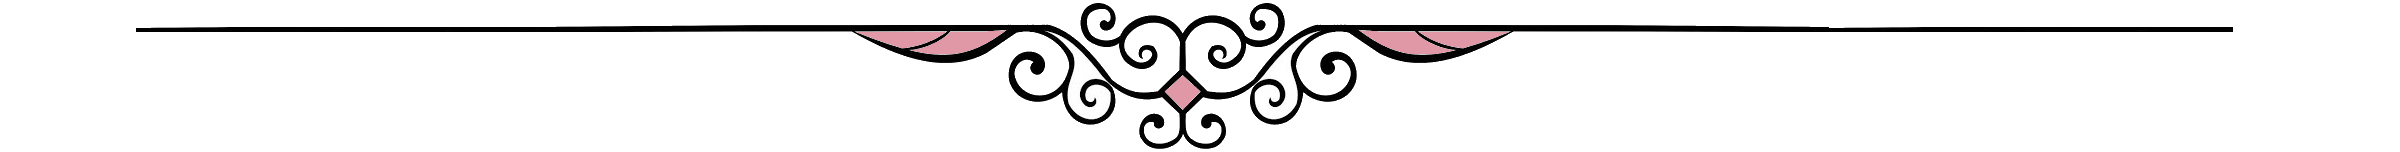
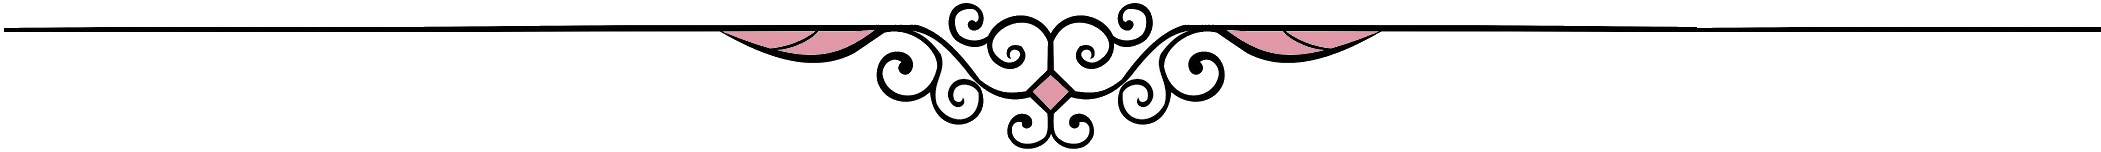
-changes to page layout -added graphic underlines for lvl before and after pics

diff --git a/lvl.html b/lvl.html
@@ -117,8 +117,11 @@
             <img src="imgs/lvl-model-after.jpg" alt="">
         </div>
 
+        <div class="d-flex justify-content-center">
+            <img id="underline" src="imgs/underline-pic.jpg" alt="">
+        </div>
 
-        <h1 id="faq" class="main-title pink my-5">Frequently Asked Questions</h1>
+        <h1 id="faq" class="main-title pink">Frequently Asked Questions</h1>
     
         <section class="section-2">
             <img src="imgs/lvl1.jpg" alt="">
@@ -174,8 +177,8 @@
             <img src="imgs/lvl-finished.jpg" alt="">
         </section>
 
-        <div class="seperator">
-            <img id="underline" src="imgs/linebreak.png" alt="">
+        <div class="d-flex justify-content-center">
+            <img id="seperator" src="imgs/linebreak.png" alt="">
         </div>
         
         <section class="services-section">

diff --git a/lvl.css b/lvl.css
@@ -173,6 +173,12 @@
 
 #faq {
     font-size: 3.5vw;
+    margin-top: 40px;
+}
+
+#seperator {
+    width: 27%;
+    margin: 40px auto 15px;
 }
 
 /* Mobile */
@@ -288,6 +294,10 @@
 
 @media only screen and (max-width: 426px) {  /* PHONE */
 
+    #underline {
+        display: none;
+    }
+
     .lvl-mobile-banner {
         display: block;
     }
@@ -388,6 +398,12 @@
         text-align: center;
         border-top: 1px solid #000;
         padding-top: 30px;
+        margin-top: 0;
+    }
+
+    #seperator {
+        width: 70%;
+        margin: 10px auto;
     }
 }
 /* Media Queries */ 

diff --git a/style.css b/style.css
@@ -196,9 +196,8 @@ p {
 
 #underline {
     height: auto;
-    width: 350px;
-    margin-top: 30px;
-    margin-bottom: 30px;
+    width: 70%;
+    margin: 10px auto 30px;
 }
 
 /* BURGER */
